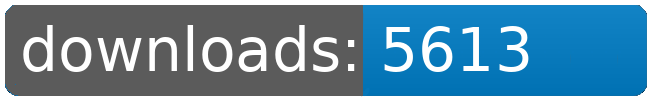
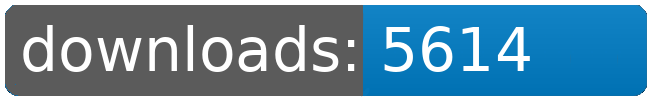
dl log written

Changed region(s): [[0.7692, 0.24, 0.8308, 0.72]]

diff --git a/README.md b/README.md
@@ -21,8 +21,8 @@
 		<td>5493</td>
 		<td>5531</td>
 		<td>5577</td>
-		<td>5613</td>
-		<td>+ 36</td>
+		<td>5614</td>
+		<td>+ 37</td>
 	</tr>
 	<tr>
 		<td>Factory.Outlets</td>
@@ -109,8 +109,8 @@
 		<td></td>
 		<td></td>
 		<td></td>
-		<td>44232</td>
-		<td>175</td>
+		<td>44233</td>
+		<td>176</td>
 	</tr>
 </table>
 </sub></sup>
@@ -157,8 +157,8 @@
 		<td>5493</td>
 		<td>5531</td>
 		<td>5577</td>
-		<td>5613</td>
-		<td>+ 36</td>
+		<td>5614</td>
+		<td>+ 37</td>
 	</tr>
 	<tr>
 		<td>Korunak.Defense.Drones</td>
@@ -223,8 +223,8 @@
 		<td></td>
 		<td></td>
 		<td></td>
-		<td>44232</td>
-		<td>175</td>
+		<td>44233</td>
+		<td>176</td>
 	</tr>
 </table>
 </sub></sup>
